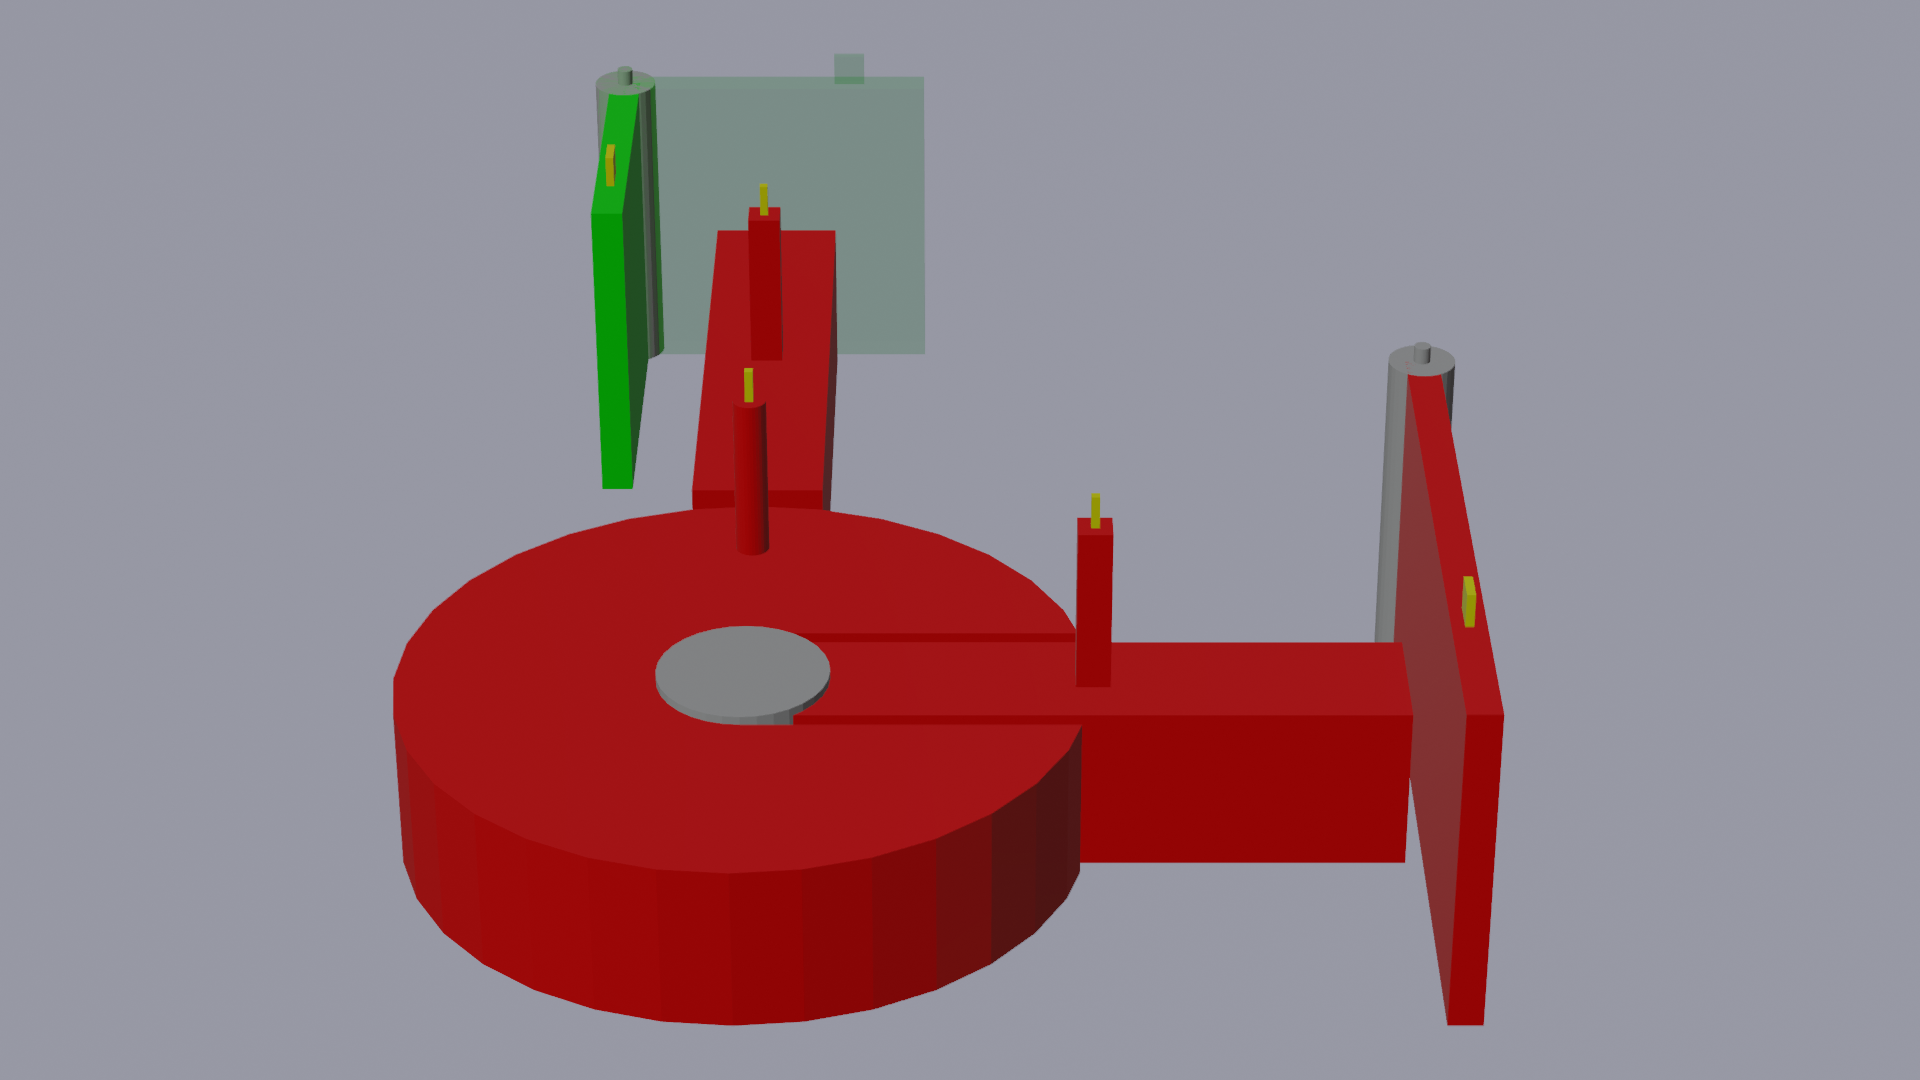
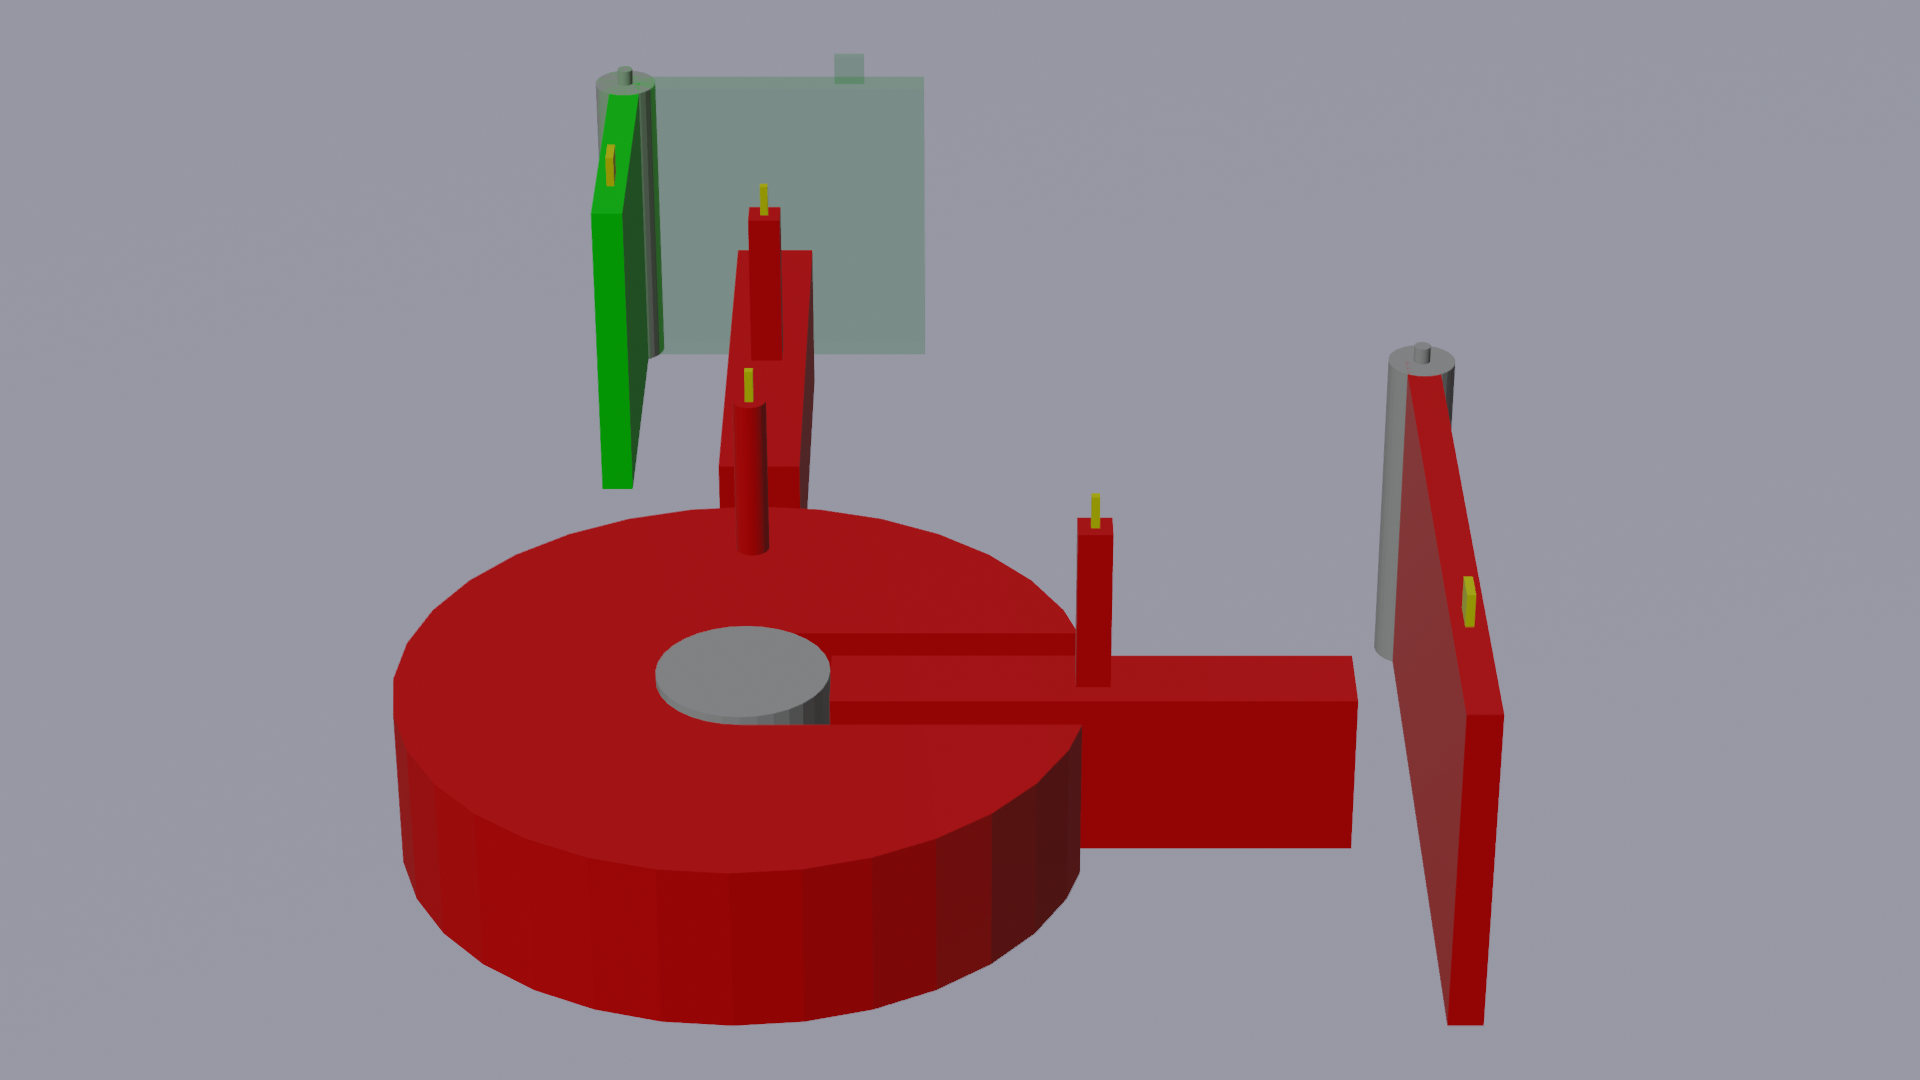
chore (minor): smaller sliders in lockbox2017

Changed region(s): [[0.5625, 0.5806, 0.75, 0.825], [0.3438, 0.2139, 0.4375, 0.4889], [0.4062, 0.6417, 0.4375, 0.6722]]

diff --git a/src/sampling.py b/src/sampling.py
@@ -693,7 +693,7 @@ class Lockbox2017Sampler(PuzzleSampler):
         self.start_state.append(0)
         self.goal_space_append((calc.RAD90, calc.RAD90))
 
-        self.world.new_link((-4, 0, 0.5), (0, 0, 0), (3.6, 0.8, 1), 'prismatic', 0, 2,
+        self.world.new_link((-4, 0, 0.5), (0, 0, 0), (3, 0.5, 1), 'prismatic', 0, 2,
                             create_handle=self.create_handle, joint_axis=(1, 0, 0))
         self.start_state.append(0)
         self.goal_space_append((0, 2))
@@ -703,7 +703,7 @@ class Lockbox2017Sampler(PuzzleSampler):
         self.start_state.append(0)
         self.goal_space_append((0, calc.RAD90))
 
-        self.world.new_link((0, 2, 0.5), (0, 0, calc.RAD90), (3.6, 0.8, 1), 'prismatic', 0, 2,
+        self.world.new_link((0, 2, 0.5), (0, 0, calc.RAD90), (3, 0.5, 1), 'prismatic', 0, 2,
                             create_handle=self.create_handle, joint_axis=(1, 0, 0))
         self.start_state.append(0)
         self.goal_space_append((0, 2))
